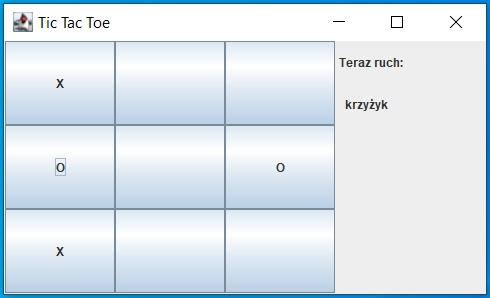
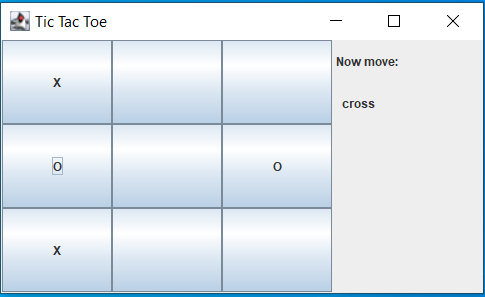
optimizing and translate labels

diff --git a/src/main/java/pl/pp/tictactoe/OperatingWin.java b/src/main/java/pl/pp/tictactoe/OperatingWin.java
@@ -15,7 +15,7 @@ public class OperatingWin {
 
     private void checkTieInTheGame() {
         if ( numberClickCrossOrWheel == numberOfFields ) {
-            messageWindow.showMessage("Remis!");
+            messageWindow.showMessage("Tie!");
             resetGame();
         }
     }
@@ -24,13 +24,13 @@ public class OperatingWin {
         String line = checkAreFieldsWin(i);
 
         if ( line.equals("XXX") ) {
-            messageWindow.showMessage("Wygrana gracza krzyżyk!");
+            messageWindow.showMessage("Win! Cross player!");
             resetGame();
-            labelPlayer.setText("   kółko");
+            labelPlayer.setText("   circle");
         } else if ( line.equals("OOO") ) {
-            messageWindow.showMessage("Wygrana gracza kółko!");
+            messageWindow.showMessage("Win! Circle player!");
             resetGame();
-            labelPlayer.setText("   krzyżyk");
+            labelPlayer.setText("   cross");
         }
 
     }

diff --git a/src/main/java/pl/pp/tictactoe/MainFrame.java b/src/main/java/pl/pp/tictactoe/MainFrame.java
@@ -8,7 +8,6 @@ import static pl.pp.tictactoe.Utils.*;
 
 public class MainFrame extends JFrame {
 
-    private JLabel labelText;
     private final int rows = 3;
     private final int cols = 3;
 
@@ -19,19 +18,10 @@ public class MainFrame extends JFrame {
 
         generateBoardOfFields();
 
-        labelText = new JLabel(" Teraz ruch:");
-        labelPlayer = new JLabel("   krzyżyk");
-        JPanel infoPanel = new JPanel();
-
-        infoPanel.add(labelText);
-        infoPanel.add(labelPlayer);
-        infoPanel.setPreferredSize(new Dimension(150, 150));
-
         fieldsPanel.setLayout(new GridLayout(rows, cols));
-        infoPanel.setLayout(new GridLayout(6, 1));
 
         add(fieldsPanel);
-        add(infoPanel, BorderLayout.EAST);
+        add(InfoPanel.getInstance(), BorderLayout.EAST);
 
     }
 

diff --git a/src/main/java/pl/pp/tictactoe/ButtonField.java b/src/main/java/pl/pp/tictactoe/ButtonField.java
@@ -42,14 +42,14 @@ public class ButtonField extends JButton {
             number[fieldNumber] = "X";
             playerCross = false;
             playerWheel = true;
-            labelPlayer.setText("   kółko");
+            labelPlayer.setText("   circle");
             numberClickCrossOrWheel++;
         } else if ( !playerCross && playerWheel && noClickField ) {
             setText("O");
             number[fieldNumber] = "O";
             playerCross = true;
             playerWheel = false;
-            labelPlayer.setText("   krzyżyk");
+            labelPlayer.setText("   cross");
             numberClickCrossOrWheel++;
         }
     }

diff --git a/src/main/java/pl/pp/tictactoe/InfoPanel.java b/src/main/java/pl/pp/tictactoe/InfoPanel.java
@@ -1,0 +1,28 @@
+package pl.pp.tictactoe;
+
+import javax.swing.*;
+import java.awt.*;
+
+import static pl.pp.tictactoe.Utils.*;
+
+public class InfoPanel extends JPanel {
+
+    private static final InfoPanel infoPanel = new InfoPanel();
+    private JLabel labelText;
+
+    public static InfoPanel getInstance() {
+        return infoPanel;
+    }
+
+    public InfoPanel() {
+        labelText = new JLabel(" Now move:");
+        labelPlayer = new JLabel("   cross");
+
+        add(labelText);
+        add(labelPlayer);
+        setPreferredSize(new Dimension(150, 150));
+
+        setLayout(new GridLayout(6, 1));
+    }
+
+}

diff --git a/src/main/java/pl/pp/tictactoe/FieldsPanel.java b/src/main/java/pl/pp/tictactoe/FieldsPanel.java
@@ -1,0 +1,23 @@
+package pl.pp.tictactoe;
+
+import javax.swing.*;
+import java.awt.*;
+
+public class FieldsPanel extends JFrame {
+
+    private final int rows = 3;
+    private final int cols = 3;
+
+    private static final FieldsPanel fieldsPanel = new FieldsPanel();
+
+    public static FieldsPanel getInstance() {
+        return fieldsPanel;
+    }
+
+    public FieldsPanel() {
+
+        setLayout(new GridLayout(rows, cols));
+
+    }
+
+}
